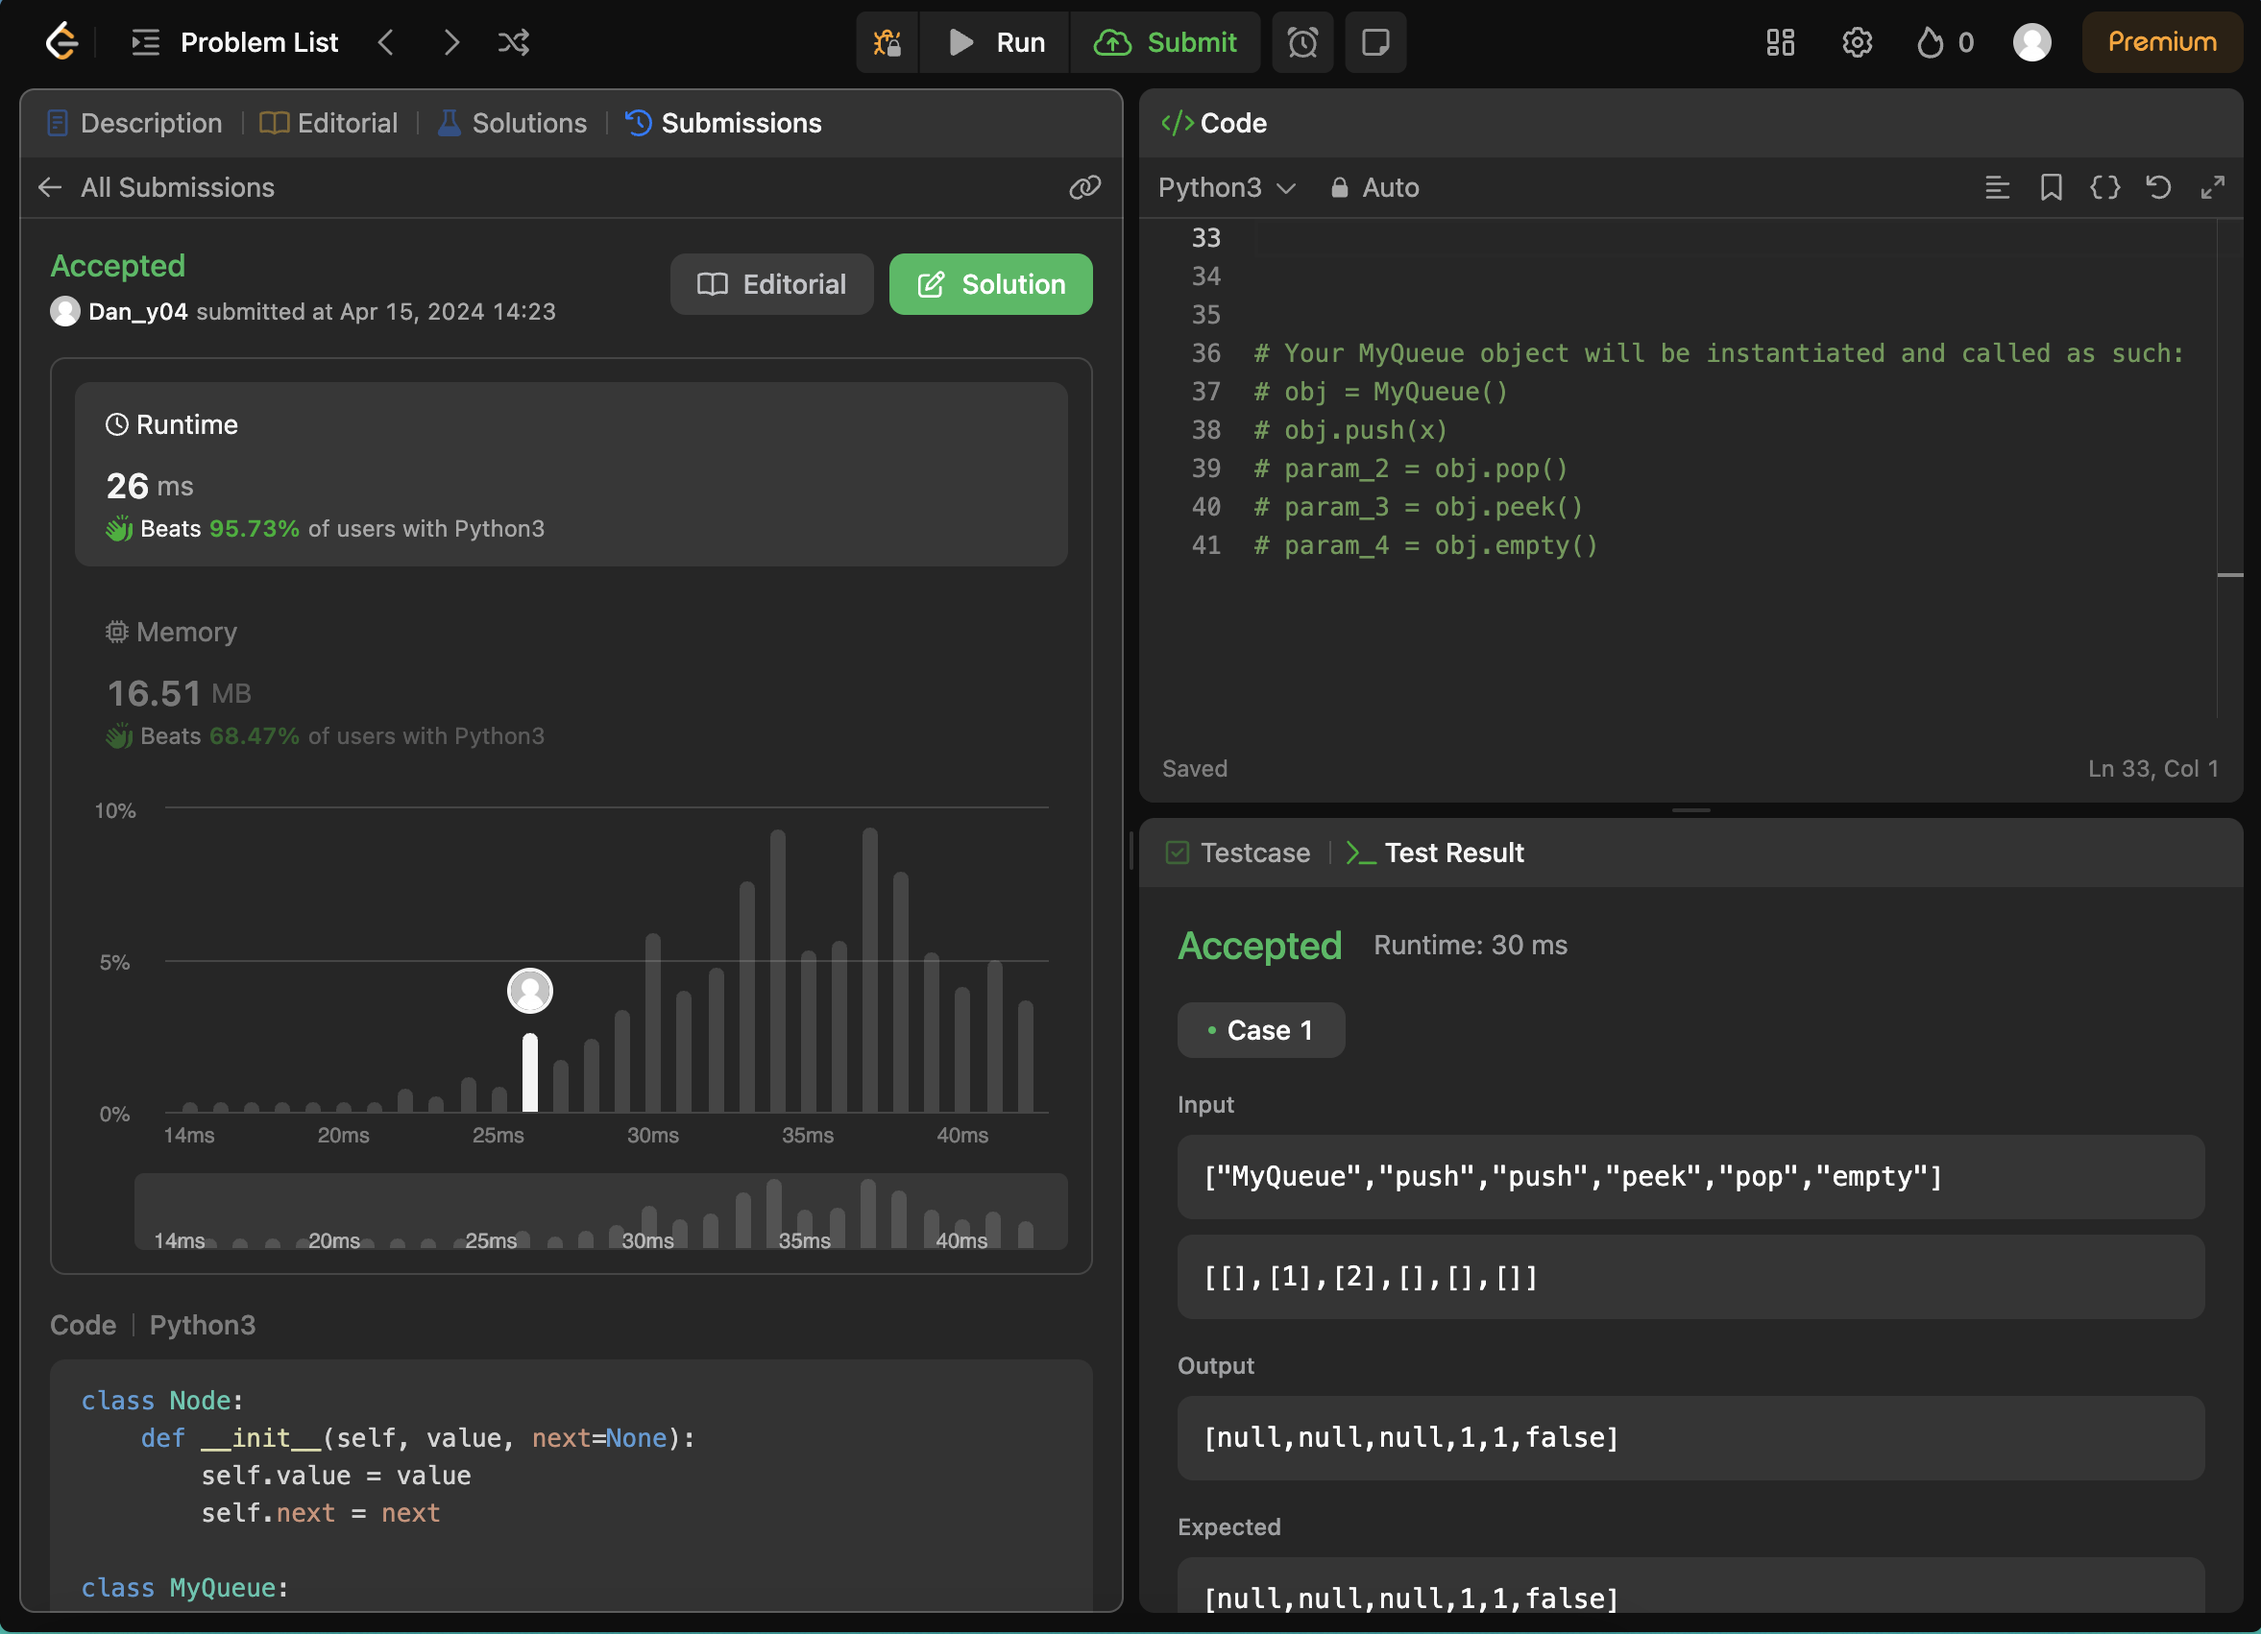
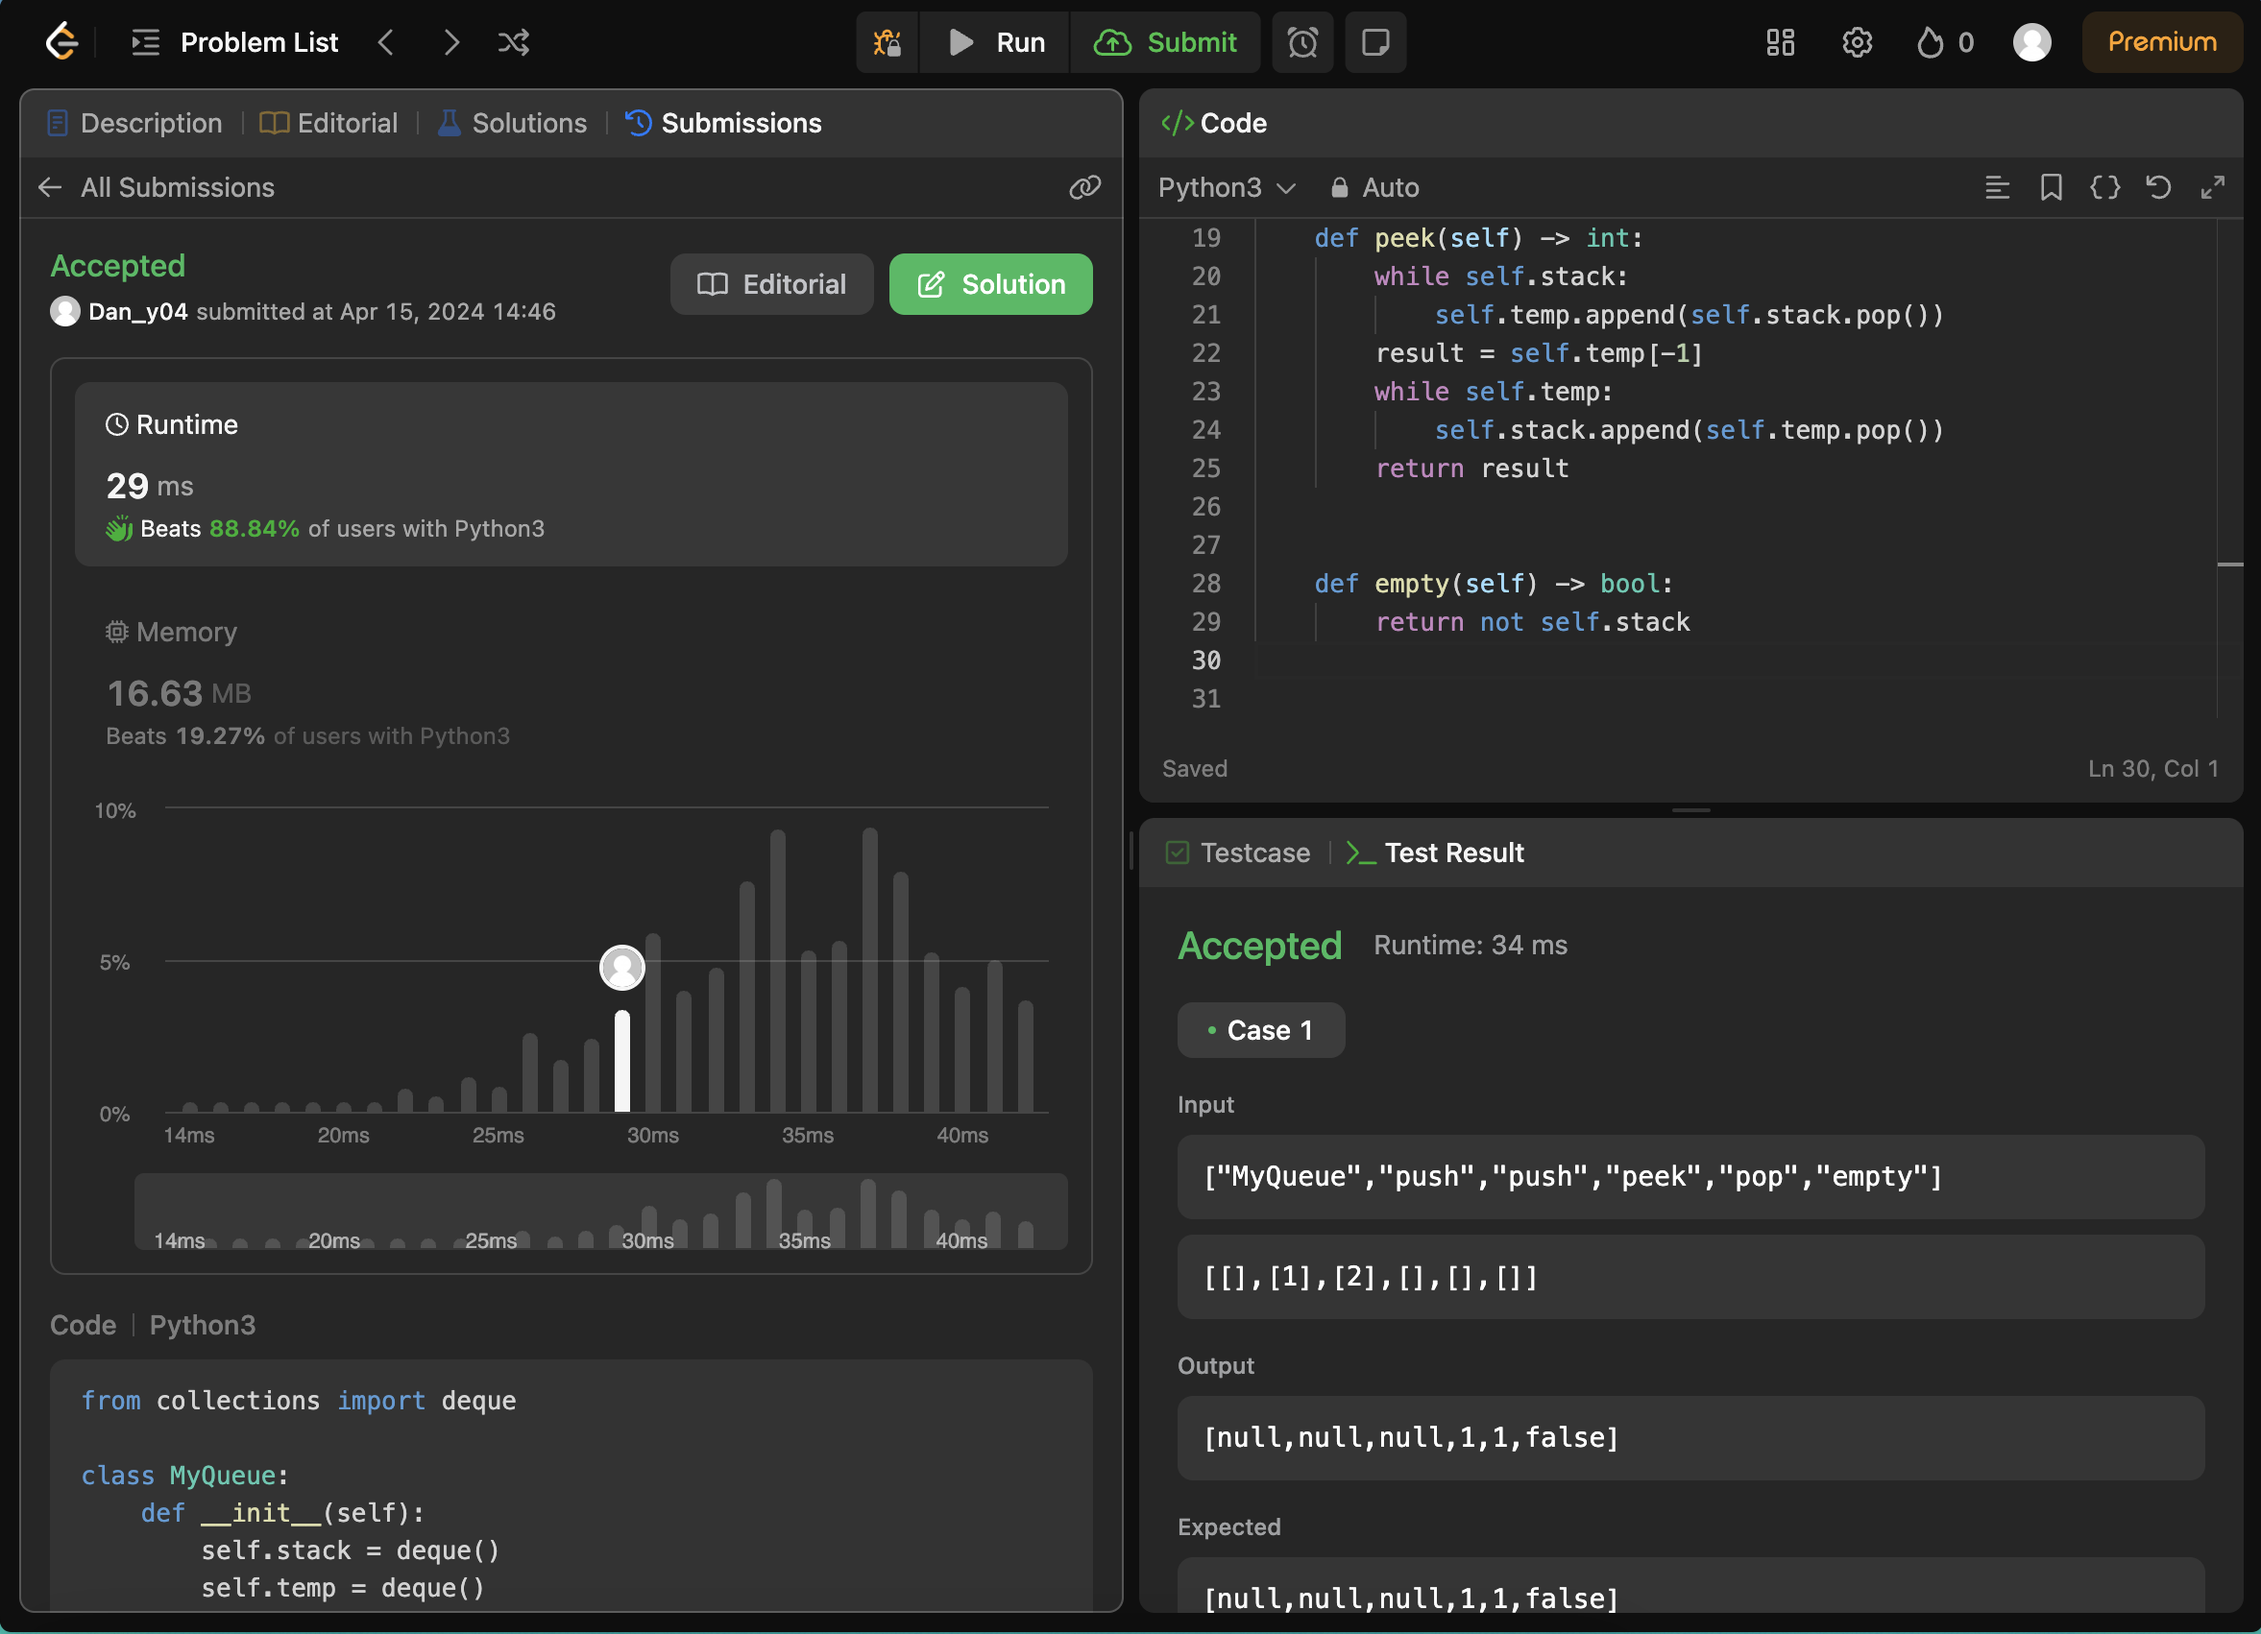
changed first sollution

diff --git a/Implement Queue using Stacks/Implement Queue using Stacks.py b/Implement Queue using Stacks/Implement Queue using Stacks.py
@@ -1,32 +1,29 @@
-class Node:
-    def __init__(self, value, next=None):
-        self.value = value
-        self.next = next
+from collections import deque
 
 class MyQueue:
     def __init__(self):
-        self.head = None
-        self.tail = None
+        self.stack = deque()
+        self.temp = deque()
 
     def push(self, x: int) -> None:
-        if not self.head:
-            self.head = Node(x)
-            self.tail = self.head
-        else:
-            self.tail.next = Node(x)
-            self.tail = self.tail.next
+        self.stack.append(x)
 
     def pop(self) -> int:
-        if self.head:
-            value = self.head.value
-            self.head = self.head.next
-            return value
-        return None
+        while len(self.stack) > 1:
+            self.temp.append(self.stack.pop())
+        result = self.stack.pop()
+        while self.temp:
+            self.stack.append(self.temp.pop())
+        return result
 
     def peek(self) -> int:
-        if self.head:
-            return self.head.value
-        return None
+        while self.stack:
+            self.temp.append(self.stack.pop())
+        result = self.temp[-1]
+        while self.temp:
+            self.stack.append(self.temp.pop())
+        return result
+        
 
     def empty(self) -> bool:
-        return not self.head
+        return not self.stack

diff --git a/Implement Stack using Queues/Implement Stack using Queues.py b/Implement Stack using Queues/Implement Stack using Queues.py
@@ -1,0 +1,18 @@
+
+
+class MyStack:
+
+    def __init__(self):
+        
+
+    def push(self, x: int) -> None:
+        
+
+    def pop(self) -> int:
+        
+
+    def top(self) -> int:
+        
+
+    def empty(self) -> bool:
+
